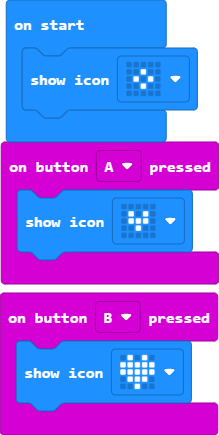
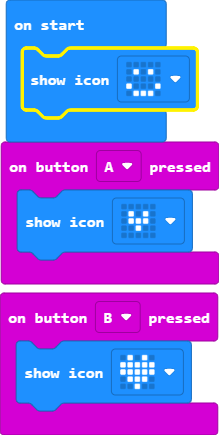
Update main.blocks, main.ts

Changed region(s): [[0.0822, 0.0897, 0.9315, 0.2989]]

diff --git a/main.ts b/main.ts
@@ -4,4 +4,4 @@ input.onButtonPressed(Button.A, function () {
 input.onButtonPressed(Button.B, function () {
     basic.showIcon(IconNames.Heart)
 })
-basic.showIcon(IconNames.SmallDiamond)
+basic.showIcon(IconNames.Happy)
